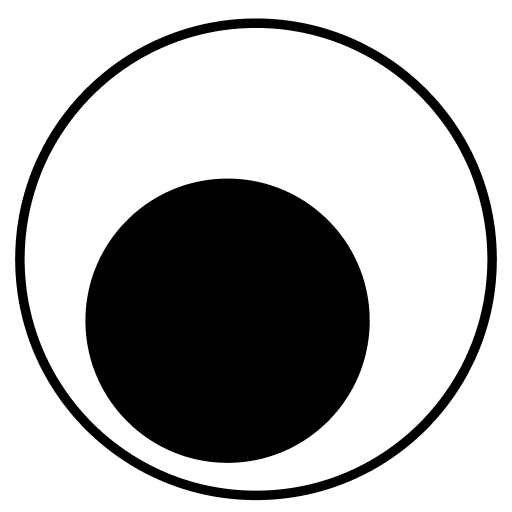
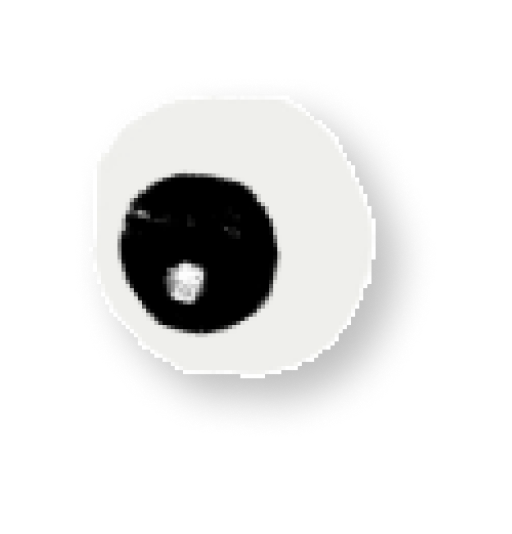
Change back button eyeball. Fix hover

Changed region(s): [[0.0312, 0.0312, 0.9688, 1.0]]

diff --git a/app/src/components/shared/BackButton.tsx b/app/src/components/shared/BackButton.tsx
@@ -7,9 +7,10 @@ const StyledBackButton = styled.button`
   padding-left: 10px;
   background-color: transparent;
 
-  :hover {
-    border: none;
-  }
+  &:hover {
+      background-color: transparent;
+      border-color: transparent;
+    }
 
   :focus {
     outline: none;
@@ -18,8 +19,7 @@ const StyledBackButton = styled.button`
 
 const GooglyEye = styled.img`
   content: url('/googly-eye.png');
-  max-width: 25px;
-  margin: auto 5px;
+  max-width: 50px;
 `
 
 const BackButtonText = styled.text`
@@ -27,6 +27,7 @@ const BackButtonText = styled.text`
   font-weight: bold;
   color: rgb(255, 255, 255);
   padding-top: 5.5px;
+  padding-bottom: 10px;
 `
 
 type TaskListBackButtonProps = {
@@ -37,7 +38,7 @@ export default function BackButton(props: TaskListBackButtonProps) {
   const { onClick } = props;
 
   return (
-    <StyledBackButton onClick={onClick}>
+    <StyledBackButton onClick={onClick} >
               <GooglyEye/>
               <BackButtonText>
                 BACK

diff --git a/app/src/index.css b/app/src/index.css
@@ -41,7 +41,6 @@ h1 {
 button {
   border-radius: 8px;
   border: 1px solid transparent;
-  padding: 0.6em 1.2em;
   font-size: 1em;
   font-weight: 500;
   font-family: inherit;
